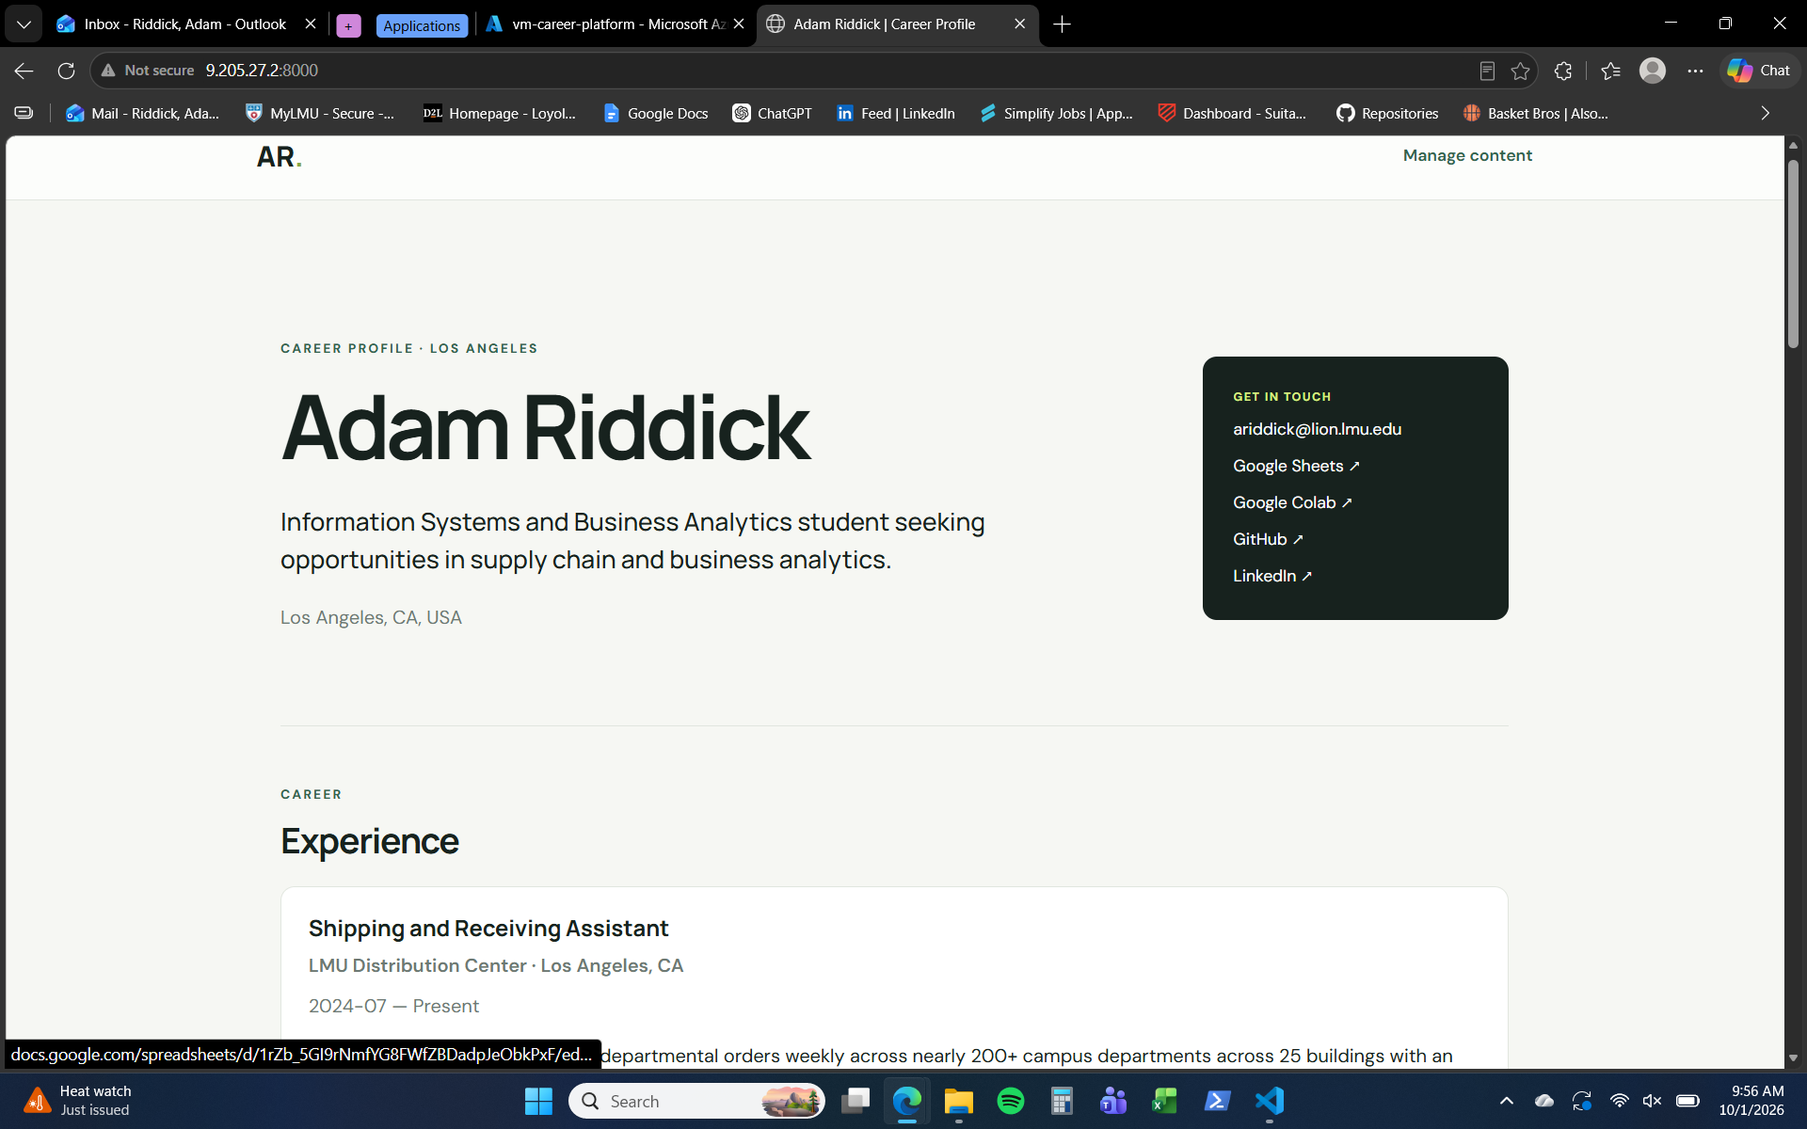
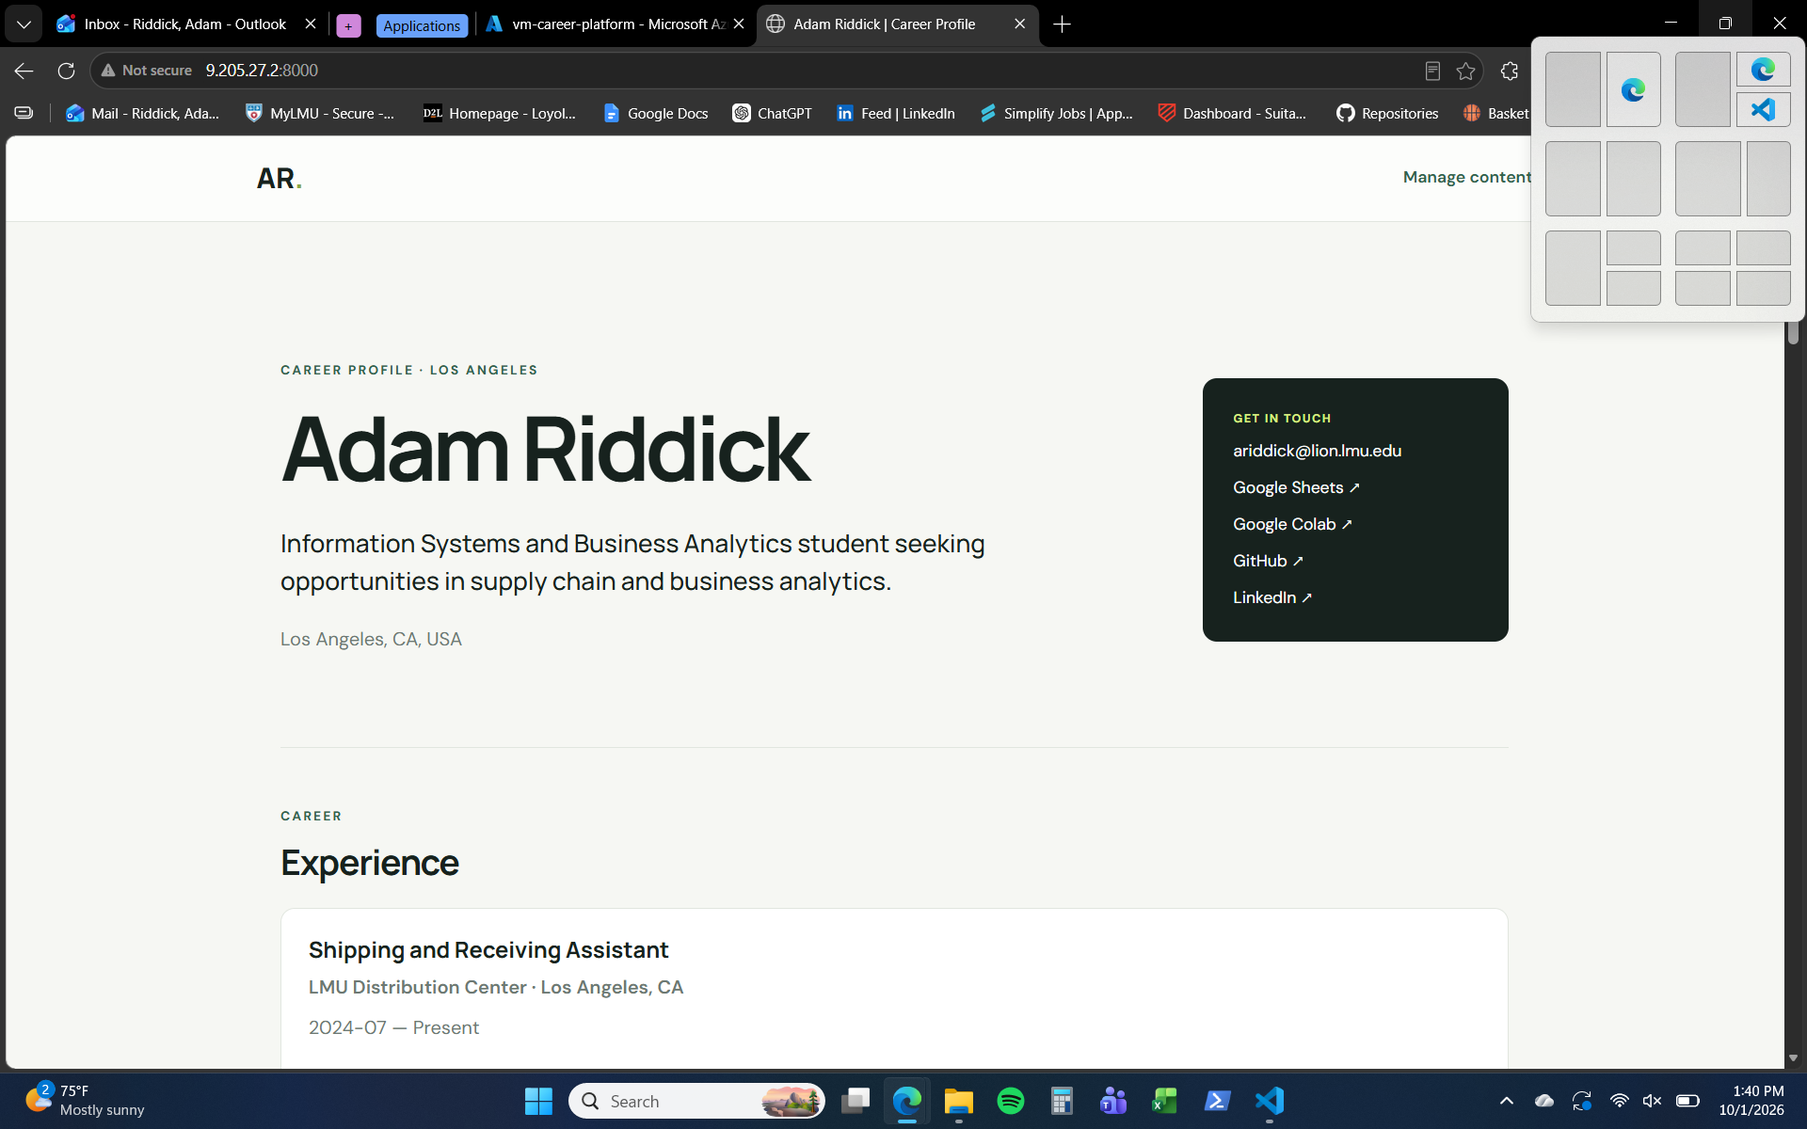
Complete Exercise 03 Azure VM migration

diff --git a/docs/superpowers/plans/2026-09-24-azure-vm-migration.md b/docs/superpowers/plans/2026-09-24-azure-vm-migration.md
@@ -1,0 +1,247 @@
+# Azure VM Migration Implementation Plan
+
+> **For agentic workers:** Use `superpowers:executing-plans` to carry out these steps task-by-task. Steps use checkbox syntax for tracking. Do not run this plan until the user asks to execute it.
+
+**Goal:** Deploy the FastAPI career platform to the existing Azure VM and serve it using the user's SQLite database.
+
+**Architecture:** Clone the application from GitHub into the VM user's home directory, install its locked Python dependencies with `uv`, and run Uvicorn with configuration from `.env`. Store the SQLite database in a persistent data directory outside the Git checkout; verify the app and data before removing temporary network access.
+
+**Tech Stack:** Azure Ubuntu VM, SSH/SCP, apt-get, Git, `uv`, Python, FastAPI, Uvicorn, Jinja2, plain CSS, SQLite.
+
+**Spec:** User-provided ordered migration sequence in this conversation. No separate design spec.
+
+## Global Constraints
+
+- Target VM: `vm-career-platform` in resource group `rg-career-platform`.
+- Target public IP: `9.205.27.2`; SSH user: `azureuser`; private key: `~/.ssh/isba4775_azure` for every SSH or SCP connection.
+- Run commands only where indicated; portal steps are Azure Portal actions.
+- Preserve the laptop database and make a VM-side backup before replacing an existing database.
+- Do not commit `.env`, secrets, or SQLite database files.
+- Do not expose SSH or the temporary Uvicorn port to all source addresses.
+
+## Files and Inputs
+
+- Modify before deployment: `pyproject.toml`, `uv.lock`, `.env.example`, `.gitignore`, and application configuration as needed so the VM can use the lock file and `.env` settings.
+- Deploy: `main.py`, `templates/`, `static/`, and the packaging/configuration files from the selected GitHub commit.
+- Preserve on the VM: `/var/lib/career-platform/career-platform.db`.
+- User inputs still needed at execution: `<GITHUB_REPOSITORY_URL>`, `<LAPTOP_DB_PATH>`, and the laptop's current public IP for a restricted temporary NSG rule.
+
+## Review Focus
+
+- Wrong SSH destination or key: check VM identity, public IP, and `whoami` before changing it.
+- Incomplete/unlocked deployment commit: check the target commit includes `pyproject.toml`, `uv.lock`, and `.env.example`.
+- Incorrect or incompatible laptop database: check SQLite integrity and expected table/column schema before transfer.
+- Existing VM database overwritten: make a timestamped backup before installation and document restore commands.
+- App cannot find or write the deployed DB: check the effective `DATA_DIR`, file ownership, and a reversible admin write.
+
+---
+
+## Server
+
+### Task 1: Confirm the Azure target and SSH access
+
+**Interfaces:** Uses the already-created Azure VM. Produces a confirmed VM shell as `azureuser` for later tasks.
+
+- [x] **Step 1: Confirm VM state and SSH rule**
+  - **Where:** Portal (Azure Portal).
+  - **What:** Open resource group `rg-career-platform` → VM `vm-career-platform`. Confirm it is running and its public IP is `9.205.27.2`. In Networking, confirm inbound TCP 22 is allowed only from the laptop's current public IP; add a source-restricted rule if needed.
+  - **Why:** Confirm the selected VM and avoid opening administrative SSH to the internet.
+  - **Check:** VM Overview shows the specified resource, state, and public IP; its NSG has the restricted SSH rule.
+  - **Undo:** Remove only an SSH rule added for this task. Leave pre-existing VM and network resources intact.
+
+- [x] **Step 2: Open and identify the SSH session**
+  - **Where:** Laptop.
+  - **What:** Run `ssh -i ~/.ssh/isba4775_azure azureuser@9.205.27.2`, then run `hostname` and `whoami` in the VM shell.
+  - **Why:** Validate the required SSH user/key and confirm the remote shell is on the intended VM.
+  - **Check:** SSH succeeds, `whoami` prints `azureuser`, and the hostname identifies the career platform VM.
+  - **Undo:** Run `exit` to close the session; this makes no server changes.
+
+## Packages
+
+### Task 2: Install the requested Ubuntu packages
+
+**Interfaces:** Consumes the SSH session from Task 1. Produces `git` and `sqlite3` on the VM.
+
+- [x] **Step 1: Install Git and SQLite CLI**
+  - **Where:** VM (SSH shell).
+  - **What:** Run `sudo apt-get update` followed by `sudo apt-get install -y git sqlite3`.
+  - **Why:** Install the packages specified for cloning source and inspecting the transferred database.
+  - **Check:** `git --version` and `sqlite3 --version` each print a version and exit successfully.
+  - **Undo:** If no other VM workload needs them, run `sudo apt-get remove git sqlite3`. This does not remove the app or its database.
+
+## Code
+
+### Task 3: Publish a deployable Python project and clone it on the VM
+
+**Interfaces:** Consumes the current app in this repository. Produces a GitHub commit with Python packaging and deployment configuration, then a clean VM clone at `/home/azureuser/career-platform`.
+
+- [x] **Step 1: Add `uv` project metadata and lock file**
+  - **Where:** Laptop (project checkout).
+  - **What:** Add `pyproject.toml` declaring the app's runtime dependencies (FastAPI, Uvicorn, Jinja2, and `python-multipart`, consistent with `requirements.txt`); generate and commit `uv.lock`. Keep `requirements.txt` only if it remains useful for non-`uv` installs.
+  - **Why:** The current checkout has `requirements.txt` but no `pyproject.toml` or `uv.lock`; `uv sync --frozen` cannot run until those files are committed.
+  - **Check:** `uv lock --check` succeeds and a clean checkout can run `uv sync --frozen`.
+  - **Undo:** Revert the packaging changes with Git if they are incorrect; do not remove the existing `requirements.txt` until the lock-file install works.
+
+- [x] **Step 2: Add environment template and ignore local data**
+  - **Where:** Laptop (project checkout).
+  - **What:** Add `.env.example` with supported, non-secret settings, including `DATA_DIR=/var/lib/career-platform`. Ensure `.gitignore` excludes `.env`, `.venv/`, and database files. The app's startup command must load `.env` (for example, use `uv run --env-file .env`) because `main.py` currently reads environment variables but does not load dotenv files itself.
+  - **Why:** Make the requested `.env` copy effective and keep private configuration and local databases out of Git.
+  - **Check:** `.env.example` is tracked; `.env`, `.venv/`, and the local `.db` file are ignored; `uv run --env-file .env` exposes `DATA_DIR` to the app process.
+  - **Undo:** Revert only the template/ignore changes as needed. Preserve any local `.env` or database before cleanup.
+
+- [x] **Step 3: Commit and push the deployable version**
+  - **Where:** Laptop (project checkout and GitHub).
+  - **What:** Commit the app, `pyproject.toml`, `uv.lock`, `.env.example`, and `.gitignore` changes, then push to the GitHub repository intended for this VM.
+  - **Why:** The VM clone must contain the locked Python project and supported configuration.
+  - **Check:** The pushed commit is visible in GitHub and contains all required files; `.env` and SQLite DB are absent.
+  - **Undo:** Revert the commit with a new commit if it should not be deployed; avoid rewriting shared history.
+
+- [x] **Step 4: Clone the selected GitHub repository**
+  - **Where:** VM (SSH shell).
+  - **What:** Check whether `/home/azureuser/career-platform` already exists. If it does not, run `git clone <GITHUB_REPOSITORY_URL> /home/azureuser/career-platform`. If it exists, inspect it and choose a new empty deployment path rather than overwriting unknown contents.
+  - **Why:** Put the pushed application version on the VM while preserving any existing data.
+  - **Check:** `git -C /home/azureuser/career-platform status --short` is empty and `git -C /home/azureuser/career-platform rev-parse --short HEAD` reports the intended commit.
+  - **Undo:** If this task created a fresh clone and it contains no user data, remove only that confirmed clone directory. Otherwise leave it intact and use a separate deployment directory or revert with Git.
+
+## Python
+
+### Task 4: Install `uv` and sync the locked environment
+
+**Interfaces:** Consumes the clone and committed lock file from Task 3. Produces an installed project environment under `.venv/`.
+
+- [x] **Step 1: Install `uv` for `azureuser`**
+  - **Where:** VM (SSH shell).
+  - **What:** Install `uv` for the `azureuser` account using Astral's official `uv` installer instructions; start a fresh shell if required so the installed binary is on `PATH`.
+  - **Why:** Provide the package manager requested for reproducible project setup.
+  - **Check:** `uv --version` prints the installed version.
+  - **Undo:** Remove the user-level `uv` executable using the installer’s documented uninstall/removal procedure; this does not change project source or database files.
+
+- [x] **Step 2: Sync exactly from the lock file**
+  - **Where:** VM (SSH shell).
+  - **What:** Run `cd /home/azureuser/career-platform` and `uv sync --frozen`.
+  - **Why:** Install dependencies matching the committed lock file without changing it on the VM.
+  - **Check:** The command exits successfully and `/home/azureuser/career-platform/.venv/bin/python` exists.
+  - **Undo:** Stop any app process, then remove only the confirmed project `.venv/` directory if a clean retry is needed; rerun `uv sync --frozen` to recreate it.
+
+## Config
+
+### Task 5: Create the VM environment file
+
+**Interfaces:** Consumes `.env.example` from the deployment commit. Produces a private VM `.env` that the Uvicorn command loads.
+
+- [x] **Step 1: Copy and set deployment values**
+  - **Where:** VM (SSH shell).
+  - **What:** From the project root, run `cp .env.example .env`, edit `.env` to set VM-specific values (including `DATA_DIR=/var/lib/career-platform`), and run `chmod 600 .env`. Do not put secrets in Git or terminal transcripts.
+  - **Why:** Configure the process without editing tracked source or exposing credentials.
+  - **Check:** `test -f .env` succeeds; `stat -c '%a %n' .env` shows mode `600`; inspect key names without printing secret values.
+  - **Undo:** Restore a protected backup of the previous `.env`, or remove only the new `.env` after confirming its path. Never delete or overwrite an existing environment file without a backup.
+
+## Data
+
+### Task 6: Validate, transfer, and install the laptop SQLite database
+
+**Interfaces:** Consumes the app schema and `.env` database path. Produces `/var/lib/career-platform/career-platform.db` on the VM, with a rollback copy if VM data existed.
+
+- [x] **Step 1: Identify and back up the laptop database**
+  - **Where:** Laptop.
+  - **What:** Set `<LAPTOP_DB_PATH>` to the intended SQLite file. Confirm the file exists and inspect its tables and current profile. Before changing any records, use Python's `sqlite3.Connection.backup()` to create a sibling backup named `<LAPTOP_DB_PATH>.before-personalization.bak`.
+  - **Why:** Identify the exact source database and preserve its original contents before replacing the seeded career records.
+  - **Check:** The source file and backup both exist, the backup is non-empty, and the inspected schema includes `person`, `education`, `experience`, `project`, `skill`, `certification`, `volunteer_experience`, and `link`.
+  - **Undo:** Restore the backup to `<LAPTOP_DB_PATH>` if personalization needs to be rolled back. Do not proceed if the intended database or backup is uncertain.
+
+- [x] **Step 2: Replace the approved career records in the laptop database**
+  - **Where:** Laptop.
+  - **What:** In a SQLite transaction, update the existing profile to Adam Riddick, Los Angeles, CA, USA, and `ariddick@lion.lmu.edu`; set the career goal to “Information Systems and Business Analytics student seeking opportunities in supply chain and business analytics,” leave `phone` empty, and retain the existing LinkedIn link. Replace the education, experience, project, and skill rows with the following resume data:
+    - Education: Loyola Marymount University, Los Angeles, CA; B.A. in Information Systems and Business Analytics; August 2023–May 2027; coursework in Analytics in Operations and Supply Chain Management, Programming for Business Applications, and Database Management Systems.
+    - Experience: LMU Distribution Center, Shipping and Receiving Assistant, Los Angeles, CA; July 2024–Present. Record five achievements: processed 250+ departmental orders weekly across nearly 200 campus departments and 25 buildings at approximately 0.02% error; used Intra to process and track about 50 departmental orders per hour during delivery operations; handled up to 160 student packages per day during a two-week move-in period with organized tracking; trained 6+ student hires on inventory software, order procedures, and delivery protocols; assisted evaluation of linear, nonlinear, and modified time-tracking models for employee package retrieval times.
+    - Projects: Warehouse Location Optimization Analysis (Excel Solver transportation cost model; 3 factories, 4 warehouse destinations, 400 units of demand; $200 difference between two candidate warehouse locations); BMW Sales Graphs (15 years of global sales across 6 regions, analyzed with pandas, Matplotlib, and NumPy); Music Sales Database Analysis (13 SQL queries using joins, aggregate functions, and subqueries against a multi-table music sales database).
+    - Skills: Excel & Access (PivotTables, Solver, Data Analysis ToolPak, data cleaning, database queries); Supply Chain Analytics (cost, capacity, and volume optimization); Inventory Management (inventory tracking, organization, and control); Python & MySQL (Intermediate; data ingestion, filtering, aggregation, and visualization).
+  - **Why:** Ensure the source database contains the approved resume information before the migration copies it.
+  - **Check:** Query the database and confirm the profile has no phone number; the education, experience, projects, and skills match the entries above; and certifications, volunteer experience, and the existing LinkedIn link remain unchanged.
+  - **Undo:** Restore `<LAPTOP_DB_PATH>.before-personalization.bak` if any record is incorrect or an out-of-scope table changed.
+
+- [x] **Step 3: Validate the personalized laptop database**
+  - **Where:** Laptop.
+  - **What:** Run `sqlite3 "<LAPTOP_DB_PATH>" 'PRAGMA integrity_check;'` and `sqlite3 "<LAPTOP_DB_PATH>" '.tables'`; query the updated profile and the five requested data areas.
+  - **Why:** Confirm the personalized database is sound and has the expected app schema before transfer.
+  - **Check:** Integrity check prints `ok`; all expected tables and columns remain available; queried rows match Step 2, including an empty phone field.
+  - **Undo:** Restore the pre-personalization backup if validation fails, then resolve the issue before proceeding.
+
+- [x] **Step 4: Create persistent VM data storage**
+  - **Where:** VM (SSH shell).
+  - **What:** Run `sudo install -d -o azureuser -g azureuser -m 0750 /var/lib/career-platform`.
+  - **Why:** Keep the database outside the Git clone so future code updates do not replace it.
+  - **Check:** `ls -ld /var/lib/career-platform` shows owner `azureuser` and mode `drwxr-x---`.
+  - **Undo:** If newly created and empty, run `sudo rmdir /var/lib/career-platform`; do not remove a directory containing a database or backup.
+
+- [x] **Step 5: Upload to a temporary filename**
+  - **Where:** Laptop.
+  - **What:** Run `scp -i ~/.ssh/isba4775_azure "<LAPTOP_DB_PATH>" azureuser@9.205.27.2:/home/azureuser/career-platform-upload.db`.
+  - **Why:** Transfer without overwriting the database path used by the app.
+  - **Check:** SCP exits successfully; on the VM, `ls -l /home/azureuser/career-platform-upload.db` shows a non-zero file size.
+  - **Undo:** If the wrong file was uploaded, remove only the confirmed temporary file on the VM. The laptop source remains unchanged.
+
+- [x] **Step 6: Back up existing VM data, then install the uploaded DB**
+  - **Where:** VM (SSH shell).
+  - **What:** Confirm no Uvicorn process is using the DB. If `/var/lib/career-platform/career-platform.db` already exists, copy it to a timestamped backup in `/var/lib/career-platform/`. Validate the upload using `sqlite3 /home/azureuser/career-platform-upload.db 'PRAGMA integrity_check;'`, then copy it into the data directory as a temporary file and atomically rename it to `career-platform.db`. Set owner `azureuser:azureuser` and mode `0640`.
+  - **Why:** Install the laptop's data while preserving the old VM database for rollback and avoiding a partially copied live DB.
+  - **Check:** Integrity check prints `ok`; `sqlite3 /var/lib/career-platform/career-platform.db '.tables'` lists all expected tables; `stat` confirms `azureuser` ownership and mode `640`.
+  - **Undo:** If there was an old DB, restore its timestamped backup to the configured DB path. If no old DB existed, move the new DB aside; do not delete it until migration acceptance.
+
+- [x] **Step 7: Remove the temporary upload**
+  - **Where:** VM (SSH shell).
+  - **What:** After checking the persistent DB, run `rm /home/azureuser/career-platform-upload.db`.
+  - **Why:** Avoid retaining an unnecessary second copy of personal data in the VM home directory.
+  - **Check:** The temporary path no longer exists and the persistent DB still passes `PRAGMA integrity_check`.
+  - **Undo:** Re-upload from the unchanged laptop source if another install attempt is needed; keep the VM backup until acceptance.
+
+## Processes
+
+### Task 7: Start Uvicorn and allow restricted verification traffic
+
+**Interfaces:** Consumes the clone, `.venv`, `.env`, and persistent SQLite DB. Produces an HTTP service on VM port 8000 for verification.
+
+- [x] **Step 1: Start Uvicorn with the VM environment file**
+  - **Where:** VM (SSH shell).
+  - **What:** From `/home/azureuser/career-platform`, run `uv run --env-file .env uvicorn main:app --host 0.0.0.0 --port 8000` and keep the SSH session open during verification.
+  - **Why:** Run the app with the copied configuration and make it reachable for the external check.
+  - **Check:** Uvicorn reports application startup complete; in another SSH session, `curl -fsS http://127.0.0.1:8000/` returns the homepage HTML.
+  - **Undo:** Press `Ctrl+C` in the attached session. The code and database remain in place.
+
+- [ ] **Step 2: Add temporary restricted inbound access**
+  - **Where:** Portal (Azure Portal).
+  - **What:** Add an inbound NSG rule for TCP port 8000 with source set to the laptop's current public IP as `/32`; use a distinct name such as `career-platform-verify`.
+  - **Why:** Permit the laptop browser check without opening Uvicorn to all internet sources.
+  - **Check:** The rule is visible on the VM's effective NSG and has the expected source and port.
+  - **Undo:** Delete this temporary rule after external verification or if verification is abandoned.
+
+> Deviation: The temporary TCP 8000 rule used source * rather than a laptop-specific /32; it was removed after external verification.
+
+## Verify
+
+### Task 8: Confirm the public response and restored content
+
+**Interfaces:** Consumes the running Uvicorn process from Task 7. Produces an accepted deployment check and a closed temporary firewall rule.
+
+- [x] **Step 1: Check the site from the laptop**
+  - **Where:** Laptop (browser).
+  - **What:** Visit `http://9.205.27.2:8000/` and `/admin`.
+  - **Why:** Confirm the app responds through the VM's public interface and that the expected pages render.
+  - **Check:** Homepage and admin page return successfully; the profile, education, experience, projects, skills, certifications, volunteer entries, and links match the laptop DB.
+  - **Undo:** Close the browser. If incorrect data is shown, stop Uvicorn and restore the VM-side database backup before retrying.
+
+- [x] **Step 2: Check HTTP, SQLite, and deployed commit on the VM**
+  - **Where:** VM (SSH shell in a second session).
+  - **What:** Run `curl -fsS http://127.0.0.1:8000/ >/dev/null`, `sqlite3 /var/lib/career-platform/career-platform.db 'PRAGMA integrity_check;'`, and `git -C /home/azureuser/career-platform rev-parse --short HEAD`.
+  - **Why:** Confirm local HTTP response, DB integrity, and deployed source version independently.
+  - **Check:** Curl exits successfully, SQLite prints `ok`, and Git reports the intended commit.
+  - **Undo:** These are read-only checks; no rollback is needed.
+
+- [x] **Step 3: Remove the temporary port rule**
+  - **Where:** Portal (Azure Portal).
+  - **What:** Delete the `career-platform-verify` NSG rule for TCP 8000.
+  - **Why:** The temporary direct Uvicorn port is only for migration verification.
+  - **Check:** The rule no longer appears; the SSH rule remains available.
+  - **Undo:** Re-add the same source-restricted rule if another check is required.
+
+**Run-state note:** Uvicorn attached to an SSH session stops when that process/session ends or the VM reboots. Persistent public operation requires a separately approved systemd/reverse-proxy/HTTPS setup and an admin-access decision; that is outside this migration sequence

diff --git a/docs/evidence/ex03.md b/docs/evidence/ex03.md
@@ -18,6 +18,8 @@ The first `.env` verification failed because the file began with a UTF-8 byte-or
 
 The personalized SQLite database was migrated and its integrity verified. Uvicorn reported application startup complete, the homepage returned successfully from a second SSH session, and the site was externally verified at <http://9.205.27.2:8000/> after the temporary `Temp-HTTP-8000` rule was opened.
 
+A GET request to <http://127.0.0.1:8000/admin> on the Azure VM returned HTTP 200 HTML containing the expected profile, education, experience, projects, skills, certifications, volunteer experience, and links.
+
 ![External site verification](ex03-site.png)
 
 ## The change
